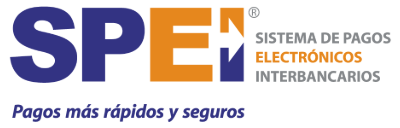
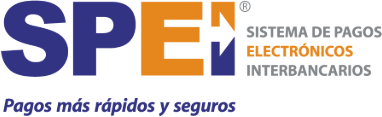
Match Pix and SPEI at one height, using the Central Bank mark.

Changed region(s): [[0.0, 0.0, 1.0, 0.6667], [0.0, 0.7949, 0.6335, 1.0], [0.0576, 0.359, 0.0864, 0.3846]]

diff --git a/app/data/features.ts b/app/data/features.ts
@@ -114,7 +114,7 @@ const en = {
           title: '',
           body: "Reduce your chargebacks. Use 3DS. The shopper's bank confirms it is the shopper. Without that challenge, the charge is 2D.",
         },
-        { icon: 'pix', title: 'PIX', body: 'In Brazil, the instant payment.' },
+        { icon: 'pix', title: '', body: 'In Brazil, the instant payment.' },
         { icon: 'boleto', title: 'Boleto', body: 'In Brazil, the bank slip.' },
         { icon: 'spei', title: '', body: 'In Mexico, the instant bank transfer.' },
         { icon: 'oxxo', title: 'OXXO Pay', body: 'In Mexico, the cash payment.' },
@@ -224,7 +224,7 @@ const pt = {
           title: '',
           body: 'Reduza o chargeback. Use 3DS. O banco de quem compra confirma que é quem compra. Sem esse desafio, a cobrança é 2D.',
         },
-        { icon: 'pix', title: 'PIX', body: 'No Brasil, o pagamento instantâneo.' },
+        { icon: 'pix', title: '', body: 'No Brasil, o pagamento instantâneo.' },
         { icon: 'boleto', title: 'Boleto', body: 'No Brasil, o boleto bancário.' },
         { icon: 'spei', title: '', body: 'No México, a transferência bancária instantânea.' },
         { icon: 'oxxo', title: 'OXXO Pay', body: 'No México, o pagamento em dinheiro.' },

diff --git a/app/data/features-es.ts b/app/data/features-es.ts
@@ -54,7 +54,7 @@ export const esCopy = {
           title: '',
           body: 'Reduzca el chargeback. Use 3DS. El banco de quien compra confirma que es quien compra. Sin ese desafío, el cobro es 2D.',
         },
-        { icon: 'pix', title: 'PIX', body: 'En Brasil, el pago instantáneo.' },
+        { icon: 'pix', title: '', body: 'En Brasil, el pago instantáneo.' },
         { icon: 'boleto', title: 'Boleto', body: 'En Brasil, el boleto bancario.' },
         { icon: 'spei', title: 'SPEI', body: 'En México, la transferencia bancaria instantánea.' },
         { icon: 'oxxo', title: 'OXXO Pay', body: 'En México, el pago en efectivo.' },

diff --git a/company-os/governance/decision-log.md b/company-os/governance/decision-log.md
@@ -4,6 +4,7 @@ One line per decision that changes direction. Newest on top.
 
 | Date | Decision | Options considered | Chosen | Why | Owner | Revisit |
 |---|---|---|---|---|---|---|
+| 26 Sep 2026 | Pix on the PayIn list is the Central Bank mark, symbol and word, from the brand manual. SPEI stays the Banco de México drawing. The two marks share one height, 4rem, a step under the 4.75rem SPEI had. The repeated title PIX comes off, as SPEI's title did. | Keep the small symbol and the word PIX in our type; leave SPEI at 4.75rem | The manual's digital mark, and one shared height | He asked for a Pix that matches the row, and for SPEI to come down a little, so the two sit even | André Silva | When either network replaces its file |
 | 26 Sep 2026 | The product close names the settlement chain, and does not name a status. End to end means authorised and captured in the acquiring market, settled on the acquirer's window, net of fees, reserve, refunds and chargebacks, then paid out once the book ties. The same chain in Portuguese and Spanish. Payment facilitator, sub-acquirer and payment institution stay off that line. | Keep "Captured in the acquiring market. Paid out once the book ties."; print the status word | The chain, without the status | He asked the PayFac committee to make the line explicit, to say it is end to end, and to speak about settlement the way that work is spoken | André Silva | When the settlement chain on the public page changes |
 | 26 Sep 2026 | The place name inside the dark plate is Cormorant Garamond italic. The country is the same face in roman capitals. The photograph credit stays Inter. Fraunces stays on the titles. | Keep Fraunces roman in the plate; use a script | Cormorant Garamond, italic for the place, roman for the country | He asked for a face that looks artistic inside that frame, and for the setting to count | André Silva | When the place plate is redrawn |
 | 26 Sep 2026 | QR Argentina has no official Transferencias 3.0 file. This row alone carries a QR in the Argentine colours with the Sun of May in the centre. The line says one code at the till, and the shopper pays from the wallet already on their phone. The 3DS row has no title. The sentence starts at reduce your chargebacks. | Keep the drawn squares and the title 3DS; wait for an official file | This mark, this sentence, no 3DS title | He said there is no official logo and that the exception is only this case, that the line sounded uninformed, and that the 3DS title should come off | André Silva | When the Banco Central publishes a file |
